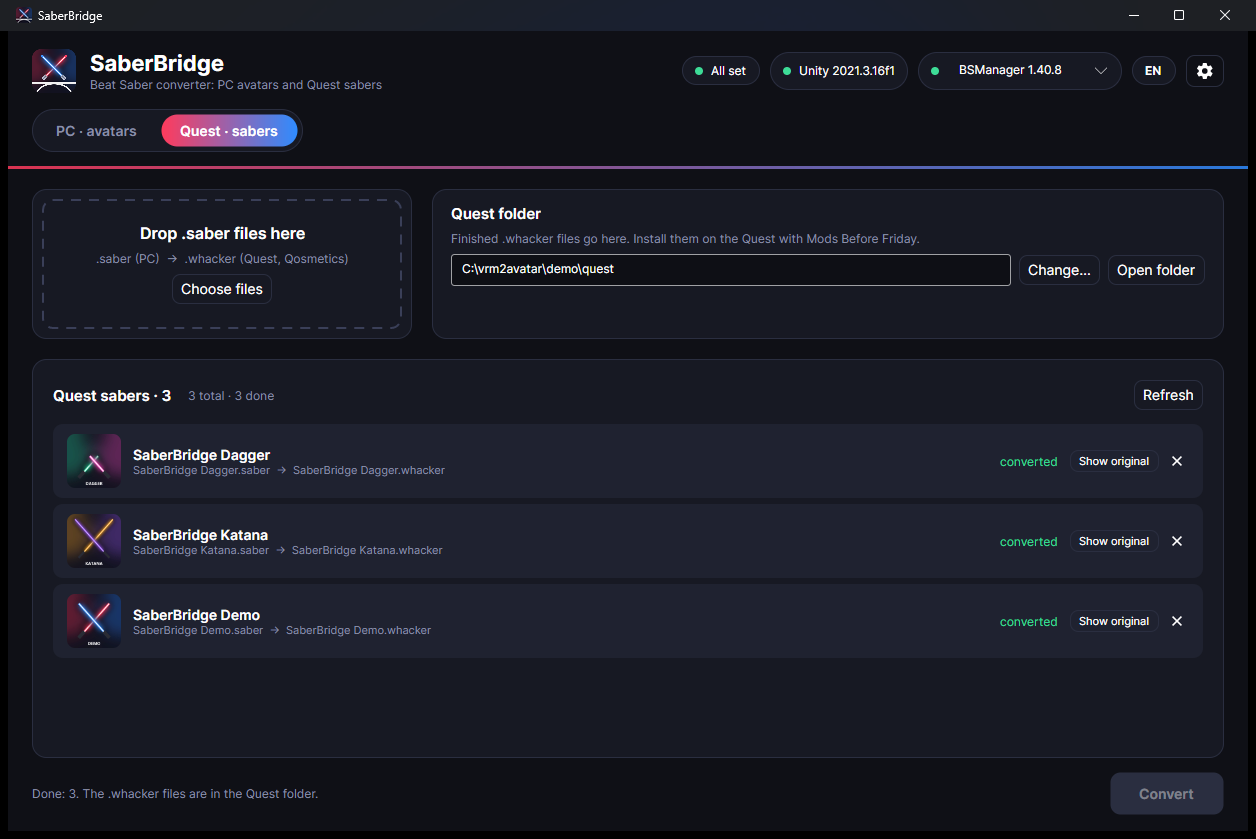
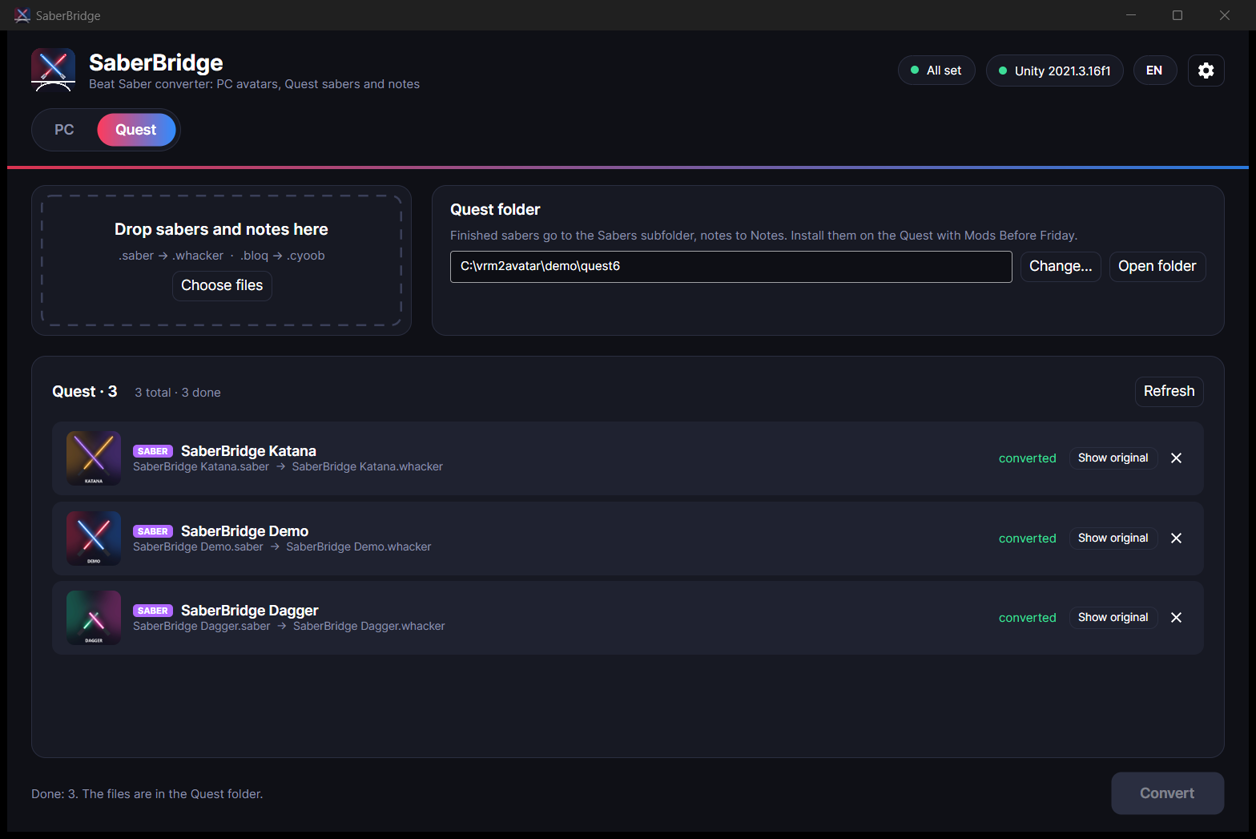
README: Quest notes, one Quest queue, automatic Unity setup, new folders

diff --git a/README.md b/README.md
@@ -4,12 +4,15 @@
 
 <p align="center">A one-window converter for Beat Saber mods on Windows and Linux.</p>
 
-SaberBridge does two things:
+SaberBridge does three things:
 
 - **PC avatars.** It turns VRM, VRChat and MMD models into `.avatar` files for the **Custom Avatars** mod (5.4.x, Beat Saber 1.40) and installs them into the game.
-- **Quest sabers.** It turns PC **CustomSabers** files (`.saber`) into **Qosmetics** sabers (`.whacker`) for Beat Saber 1.29+ on a standalone Quest.
+- **Quest sabers.** It turns PC **CustomSabers** files (`.saber`) into Quest sabers (`.whacker`).
+- **Quest notes.** It turns PC **Custom Notes** files (`.bloq`) into Quest notes (`.cyoob`).
 
-Drop your files into the window and press **Convert**. Unity does the building in the background; you never open it yourself. The interface is in English and Russian.
+The Quest files load with Qosmetics-format mods on a standalone Quest (Beat Saber 1.29+, for example Qosmetics or Custom Models).
+
+Drop your files into the window and press **Convert**. Unity does the building in the background; you never open it yourself, and the app installs it for you (see [What you need](#what-you-need)). The interface is in English and Russian.
 
 ![How to use it: avatars, preview, install, Quest sabers, system check](docs/how-to.webp)
 
@@ -22,7 +25,7 @@ Get the latest build from [**Releases**](../../releases/latest):
 - `SaberBridge-win-x64.exe` for Windows
 - `SaberBridge-linux-x64.tar.gz` for Linux
 
-Each is a single file with no installer. On first start the app checks what is missing and offers downloads for it (see [What you need](#what-you-need)).
+Each is a single file with no installer. On first start the app sets up Unity by itself (see [What you need](#what-you-need)).
 
 ## PC avatars
 
@@ -30,7 +33,7 @@ Each is a single file with no installer. On first start the app checks what is m
 2. **Press Convert.** Each model shows its current stage (reading the model, skeleton, physics, materials, IK, cover, packing) with a percentage and a timer.
 3. **Check the result.** New avatars appear at the top of the library with a **NEW** badge. A coloured dot on each card shows the result of the avatar check: green means all good, orange means worth a look.
 4. **Click a card to open its preview.** Play the idle, wave and walk animations, turn the model with the mouse, and turn the skeleton overlay on or off.
-5. **Press Install** (or *Install all*) to copy the avatars into the selected Beat Saber copy. Delete moves a file to the recycle bin.
+5. **Press Install** (or *Install all*) to copy the avatars into the selected Beat Saber copy. Delete moves a file to the recycle bin. Finished avatars are also kept in `Documents\SaberBridge\PC\Avatars`.
 
 | Input | What happens |
 |---|---|
@@ -49,42 +52,60 @@ Every avatar gets full-body IK (VRIK), finger poses, first-person head hiding, t
 | **Preview with skeleton and avatar check** | **System check** |
 | ![Preview](docs/preview.png) | ![System check](docs/system-check.png) |
 
-## Quest sabers (.saber → .whacker)
+## Quest sabers and notes (.saber → .whacker, .bloq → .cyoob)
 
-1. Open the **Quest · sabers** tab.
-2. **Drop `.saber` files**, or a `.zip` with them.
-3. **Press Convert.** Unity builds a PC and an Android (Quest) version of each saber and packs them into a `.whacker`.
-4. Take the `.whacker` files from the **Quest folder** (by default `Documents\SaberBridge\Quest Sabers`) and install them on the Quest with **Mods Before Friday**.
+1. Open the **Quest** tab. Without Beat Saber on the PC the app opens on it by itself.
+2. **Drop `.saber` and `.bloq` files**, mixed as you like, or a `.zip` with them. They all go into one queue; a badge shows what each one is. Files for the other tab (models) go to the PC queue without switching tabs.
+3. **Press Convert once.** Unity builds a PC and an Android (Quest) version of each file in one run and packs them.
+4. Take the results from the **Quest folder** (by default `Documents\SaberBridge\Quest`): sabers are in `Sabers`, notes in `Notes`. Install them on the Quest with **Mods Before Friday**.
 
 ![Quest tab](docs/quest.png)
 
-- **Same layout as Qosmetics' own exporter:** `_Whacker` with `LeftSaber` / `RightSaber`, trails with their colours and length, cover image, name and author.
-- **Meshes, textures and colours carry over.** Meshes saved without Read/Write are recovered through a one-off GPU capture.
+**Sabers**
+- **Same layout as the Qosmetics exporter:** `_Whacker` with `LeftSaber` / `RightSaber`, trails with their colours and length, cover image, name and author.
 - **Same size in hand as on PC.** Qosmetics resets the saber object's own scale, so SaberBridge moves the author's scale onto the model.
-- **Shaders.** PC-only shaders cannot run on the Quest, so they are swapped for simple Quest shaders (texture, colour, glow, saber colours). Procedural PC effects such as fire or distortion become a soft glow. All shaders are built with the Quest's multiview stereo variants.
-- **Originals are never changed or moved.** The tab remembers which `.whacker` came from which `.saber`, shows the cover from the converted file, and notices when a converted file is deleted, so you can convert it again.
+- Sabers with scripts that cannot be read (from other CustomSabers versions) still convert; such objects are rebuilt without them.
+
+**Notes**
+- Arrow and dot notes, the bomb, and chain heads and links when the `.bloq` has them; a missing dot note uses the arrow note, like Custom Notes does.
+- **Placed like on PC.** Custom Notes puts every note at the centre of the note cube at 0.4 scale with its own rotation; the `.cyoob` reproduces exactly that, whatever transform the author left in the file.
+- Note colours follow the Custom Notes "uses note colour" setting and its per-object exceptions.
+
+**Both**
+- **Meshes, textures and colours carry over.** Meshes saved without Read/Write are recovered through a one-off GPU capture.
+- **Shaders.** PC shaders cannot run on the Quest, so they are swapped for Quest shaders. Their look is captured from the PC shader (lighting and colour on a sphere) and baked in, so metal, gradients and tints stay close to the PC version. Procedural PC effects such as fire or distortion become a soft glow. All shaders are built with the Quest's multiview stereo variants.
+- **Originals are never changed or moved.** The queue remembers which Quest file came from which original, shows the cover from the converted file, and notices when a converted file is deleted, so you can convert it again.
 
 Want to try it without a saber of your own? [`samples/`](samples) has three simple demo sabers (public domain, CC0).
 
 ## What you need
 
-| | PC avatars | Quest sabers |
+| | PC avatars | Quest sabers and notes |
 |---|---|---|
-| [Unity Hub](https://unity.com/download) with a free Personal license | ✔ | ✔ |
-| Unity **2021.3.16f1** | ✔ | ✔ |
-| Unity module **Android Build Support** | | ✔ |
-| Unity module **Windows Build Support (Mono)**, Linux only | ✔ | ✔ |
+| Unity **2021.3.16f1** with Unity Hub, a free Personal license and the Android module | ✔ | ✔ |
+| A free **Unity account** (to sign in once for the license) | ✔ | ✔ |
 | Beat Saber with Custom Avatars (BSManager or Steam) | ✔ | |
-| Beat Saber 1.29+ with Qosmetics on the Quest | | ✔ |
+| Beat Saber 1.29+ with a Qosmetics-format mod on the Quest | | ✔ |
+| About 10 GB of free disk space for Unity (about 15 GB during the first setup) | ✔ | ✔ |
 
-- Add Unity modules in Unity Hub → *Installs* → ⚙ → *Add modules*.
-- The **system check** finds Beat Saber (BSManager / Steam), the Custom Avatars version, Unity Hub, the right Unity editor, the Windows build module (on Linux) and the license. The Quest tab tells you when the Android module is missing. It opens on its own when something is missing and offers a button for each item: download and install BSManager, Unity Hub or Unity 2021.3.16f1 from the official sources, or open Unity Hub's install dialog for the exact version. A table shows which Unity builds avatars for which Beat Saber version.
+**Unity installs itself (Windows).** On first start the app sets up everything Unity needs in the background, with a guide window that explains each step:
+
+- It checks the disk space and picks another drive if the system drive is too full.
+- It downloads Unity Hub, Unity 2021.3.16f1, the Android module and the Visual C++ runtime (about 3 GB) from Unity's and Microsoft's own servers, showing real sizes, speed and time left. Downloads resume after a dropped connection and switch to another official Unity server when one is blocked. Every file's digital signature is checked before it runs.
+- **Windows asks once for admin rights**: Unity's installers need them to write to Program Files. Everything is then installed silently, with a progress bar based on what is written to disk. If Windows Update cannot be reached, the optional .NET Framework 3.5 step of Unity's installer is skipped (Unity works without it).
+- **You sign in to Unity Hub once** with a free Unity account. If Hub does not add the free Personal license by itself: the gear → *Licenses* → *Add* → *Get a free personal license*. The app checks the license by starting Unity, then imports its project once.
+- If Unity's servers look blocked on your network, the app says so (a VPN helps) and carries on by itself once they can be reached.
+
+On Linux, install Unity Hub and Unity 2021.3.16f1 with the *Windows Build Support (Mono)* and *Android Build Support* modules yourself; the system check lists what is missing.
+
+- The **system check** (the chip at the top) finds Beat Saber (BSManager / Steam), the Custom Avatars version, Unity Hub, the Unity editor, its modules and the license, with a fix for each item. It opens by itself only when the open tab has something to convert and something is missing.
 - The avatar converter takes `FinalIK.dll` and `DynamicBone.dll` from your game's `Libs` folder (they come with the Custom Avatars mod).
-- The first conversion of each kind takes a few minutes while Unity imports its project once. After that an avatar takes about a minute and a saber a few seconds.
+- On machines where Unity in batch mode gets no license from Unity Hub (new installs with Hub 3), the app runs Unity as a normal editor with its window hidden instead, and remembers that.
+- The first conversion of each kind takes a few minutes while Unity imports its project once. After that an avatar takes about a minute and a saber or note a few seconds.
 
 ## Good to know
 
-- Data, logs, previews and finished avatars live in `%LOCALAPPDATA%\SaberBridge` (Windows) or `~/.local/share/SaberBridge` (Linux).
+- Finished files: `Documents\SaberBridge\PC\Avatars` and `Documents\SaberBridge\Quest\Sabers` / `Notes`. Settings, logs (including `setup.log` for the Unity setup) and previews live in `%LOCALAPPDATA%\SaberBridge` (Windows) or `~/.local/share/SaberBridge` (Linux).
 - You can drop files onto the `.exe`, or run `SaberBridge model.vrm --convert`.
 - Known limitations and ideas are tracked in [Issues](../../issues).
 
@@ -93,7 +114,7 @@ Want to try it without a saber of your own? [`samples/`](samples) has three simp
 ```
 app/          Avalonia (.NET 9) desktop app: UI, Unity runner, installers, system check
 unity/        Unity 2021.3 project for avatars: Custom Avatars templates, converter scripts (Assets/VRM2BS), vendored UniVRM
-unity-quest/  Unity 2021.3 project for Quest sabers: converter (Assets/SaberBridge), Quest shaders, CustomSabers script stubs
+unity-quest/  Unity 2021.3 project for Quest sabers and notes: converters (Assets/SaberBridge), Quest shaders, CustomSabers / CustomNotes script stubs
 samples/      CC0 demo sabers
 docs/         README images and the how-to animation
 ```
@@ -121,11 +142,13 @@ Open `unity/` in Unity 2021.3.16f1 after copying `FinalIK.dll` and `DynamicBone.
 
 `unity-quest/` needs the Android module and no paid assets:
 
-- `SaberBridge.SaberToWhacker.Run -jobsFile <file>` (lines `source.saber|output folder`)
+- `SaberBridge.QuestJobs.Run -jobsFile <file>` (lines `source|output folder`; `.saber` and `.bloq` mixed, as the app uses it)
+- `SaberBridge.SaberToWhacker.Run -jobsFile <file>` / `SaberBridge.BloqToCyoob.Run -jobsFile <file>`: one kind only
+- `SaberBridge.RenderNotes.Run -dir <folder> -out <folder>`: renders PC (`.bloq`) and Quest (`_pc` from a `.cyoob`) notes the way each mod places them, for side-by-side checks
 - `SaberBridge.Probe.Run -dir <folder> -out <file>`: lists what is inside `.saber` / `.whacker` bundles
 - `SaberBridge.DemoSaber.Run -out <file.saber> [-name … -len … -width … -guard … -cover …]`: builds the demo sabers
 
-App switches for development: `SABERBRIDGE_DATA=<folder>` uses another data folder (clean demo screenshots); `SABERBRIDGE_SIMULATE_MISSING=1` shows the system check as if nothing were installed.
+App switches for development: `SABERBRIDGE_DATA=<folder>` uses another data folder (clean demo screenshots); `SABERBRIDGE_SIMULATE_MISSING=1` shows the system check as if nothing were installed (and does not start the automatic Unity setup).
 
 ## License
 
@@ -133,4 +156,4 @@ SaberBridge is released under the [MIT License](LICENSE). Bundled third-party pa
 
 <sub>Demo models: *Sendagaya Shino*, *Sendagaya Shibu*, *Vita*, *Vivi* and *Victoria Rubin*, the VRoid Studio sample models by pixiv Inc., released under [CC0](https://creativecommons.org/publicdomain/zero/1.0/) (see [pixiv's terms](https://vroid.pixiv.help/hc/en-us/articles/4402614652569)). Demo sabers: made for this project, CC0.</sub>
 
-<sub>SaberBridge is a fan-made tool and is not affiliated with Beat Games, Meta, Unity, pixiv, or the authors of Custom Avatars, CustomSabers or Qosmetics.</sub>
+<sub>SaberBridge is a fan-made tool and is not affiliated with Beat Games, Meta, Unity, pixiv, or the authors of Custom Avatars, CustomSabers, Custom Notes or Qosmetics.</sub>
